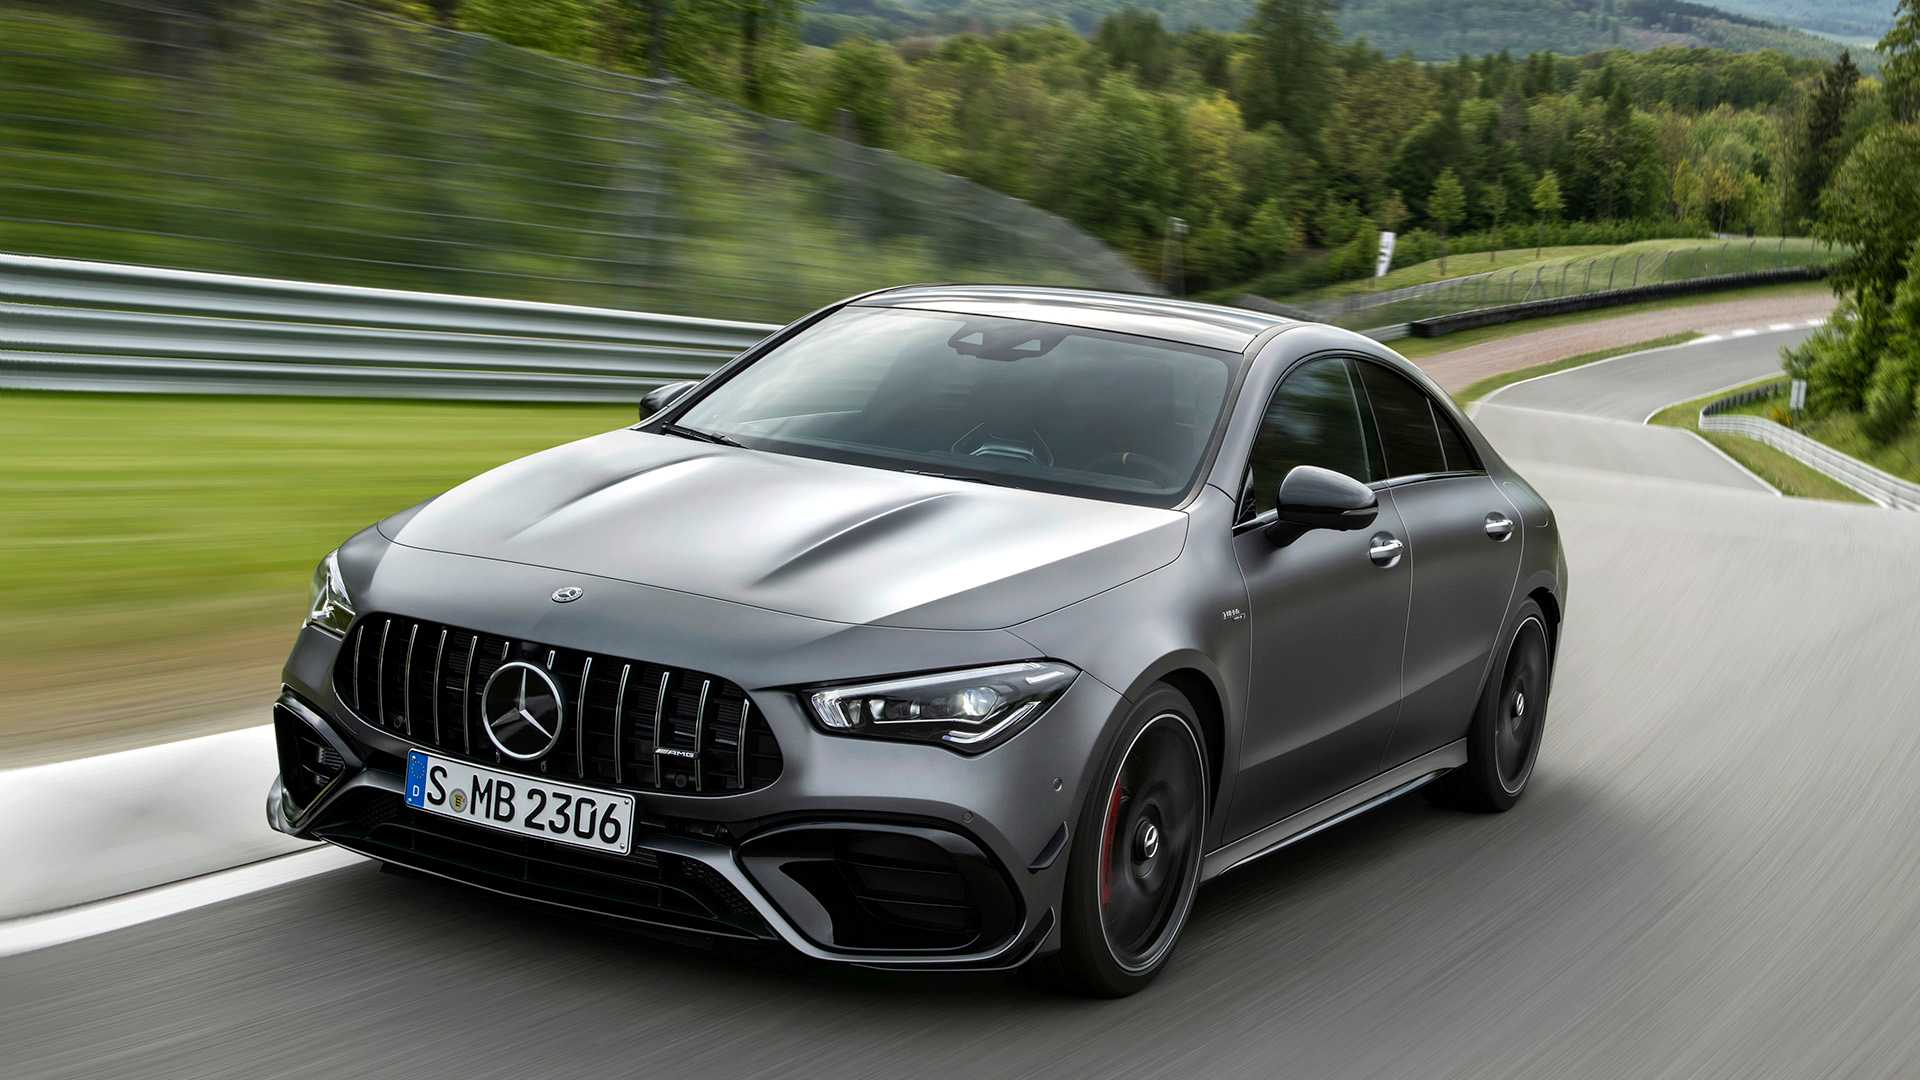
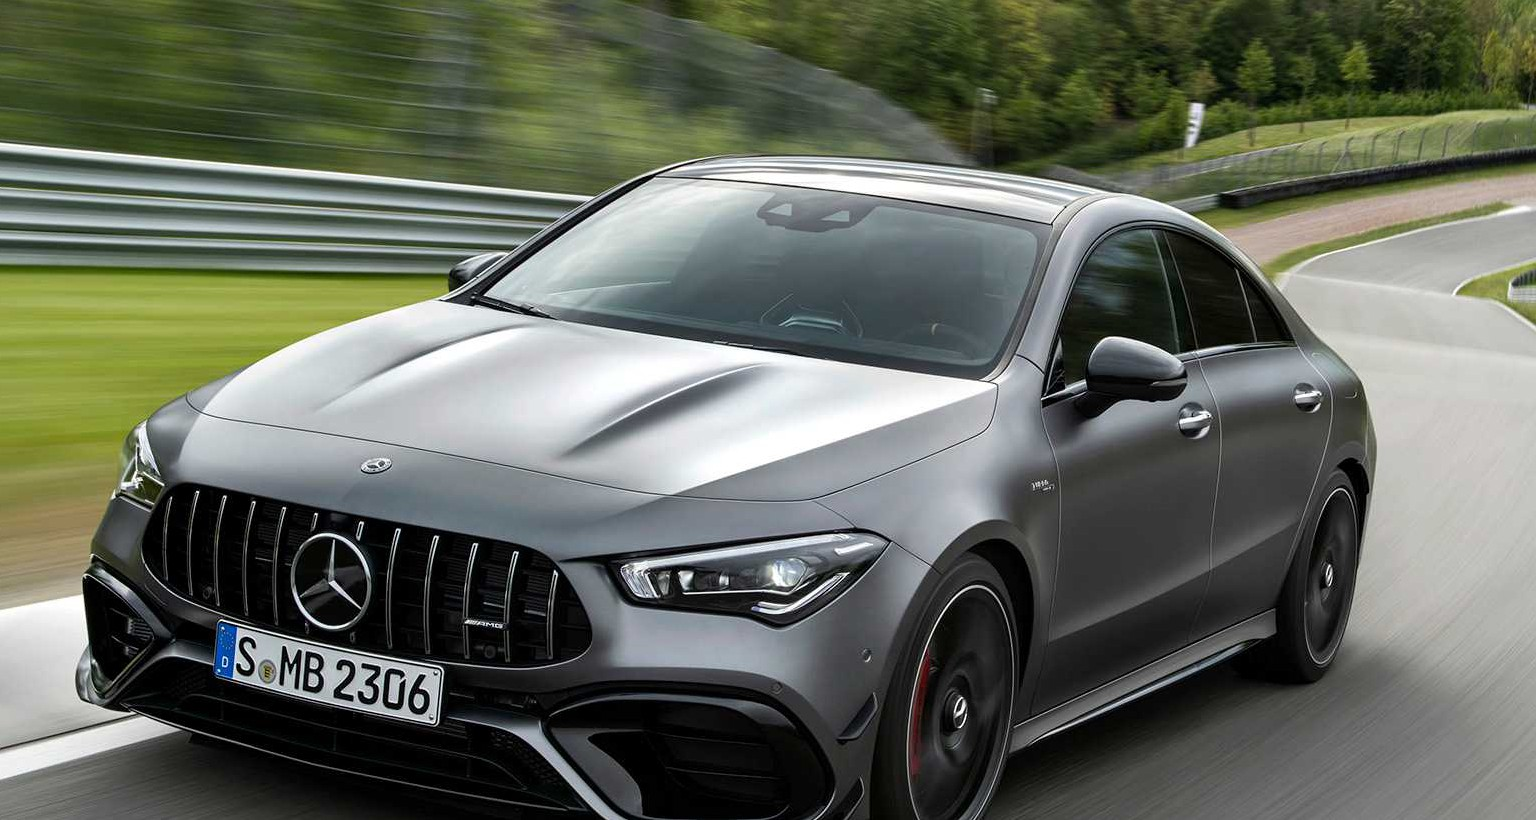
'media'

diff --git a/public/js/media.js b/public/js/media.js
@@ -1,5 +1,5 @@
 // upload picture
-$('#med_pic').on('input',function () {
+/*$('#med_pic').on('input',function () {
     let fd = new FormData(),
         file = $(this)[0].files,
         _self =$(this)[0],
@@ -43,7 +43,7 @@ $('#med_pic').on('input',function () {
             console.log((xhr));
         }
     });
-});
+});*/
 
 // function readURL(input) {
 //     if (input.files && input.files[0]) {
@@ -58,6 +58,168 @@ $('#med_pic').on('input',function () {
 //     }
 // }
 
+let $modal = $('#modal');
+let image = document.getElementById('image');
+let cropper;
+let send_data= [];
+$(document).on('click', '.blah', function (e) {
+    let url = $(this).attr('src');
+    $modal.modal('show');
+    image.src = url;
+    let fname = url.replace(/^.*[\\\/]/, ''),
+    id = $(this).parent().data('id');
+    fetch(url)
+        .then(function (response) {
+            return response.blob()
+        })
+        .then(function (blob) {
+            // send('k', blob,fname,id)
+            send_data.push('k')
+            send_data.push(blob)
+            send_data.push(fname)
+            send_data.push(id)
+        });
+
+});
+
+
+
+$("body").on("change", ".image", function(e){
+    let files = e.target.files;
+    const file11 = this.files[0];
+    const fileType = file11['type'];
+    const validImageTypes = ['image/gif', 'image/jpeg', 'image/png'];
+    console.log(file11);
+    let done = function (url) {
+        image.src = url;
+        $modal.modal('show');
+      //  send()
+    };
+    let reader;
+    let file;
+    let url;
+    if (files && files.length > 0 && validImageTypes.includes(fileType)) {
+        file = files[0];
+        if (URL) {
+            done(URL.createObjectURL(file));
+        } else if (FileReader) {
+            reader = new FileReader();
+            reader.onload = function (e) {
+                done(reader.result);
+            };
+            reader.readAsDataURL(file);
+        }
+    }
+    else {
+        flashMessage('unsupported media type !','red');
+    }
+});
+
+$modal.on('shown.bs.modal', function () {
+    cropper = new Cropper(image, {
+        // aspectRatio: 1,
+        viewMode:3,
+        preview: '.preview',
+        crop(event) {
+            cropImage(
+                event.detail.x,
+                event.detail.y,
+                event.detail.width,
+                event.detail.height,
+                event.detail.scaleX,
+                event.detail.scaleY);
+            $('.w_value').html(Math.round(event.detail.width) + 'px');
+            $('.h_value').html(Math.round(event.detail.height) + 'px');
+        },
+    });
+    // console.log(x);
+}).on('hidden.bs.modal', function () {
+    cropper.destroy();
+    cropper = null;
+    send_data = [];
+});
+let arr = {};
+function cropImage(x,y,w,h,X,Y){
+    arr = {
+        'x':x,
+        'y':y,
+        'w':w,
+        'h':h,
+        'X':X,
+        'Y':Y,
+    };
+    return arr;
+}
+
+// console.log(arr);
+// function send(param,blob,fname,id) {
+
+//     console.log(param,blob,fname,id);
+
+    $("#crop").on('click',function(){
+        console.log(send_data[2]);
+        let fd = new FormData(),
+            // _self =$('#med_pic')[0],
+            fol = $('#fldr').val(),
+            file;
+        if(send_data.length > 1 && send_data[0] == 'k'){
+            fd.append('param',send_data[0]);
+            fd.append('file',send_data[1],send_data[2]);
+        } else{
+            file = $('#med_pic')[0].files[0];
+            fd.append('file',file);
+        }
+        fd.append('folder',fol);
+        fd.append('prop',JSON.stringify(arr));
+        $.ajaxSetup({
+            headers: {
+                'X-CSRF-TOKEN': $('meta[name="csrf-token"]').attr('content')
+            }
+        });
+        $.ajax({
+            url: 'media/upload',
+            type: 'post',
+            // dataType: "json",
+            data: fd,
+            contentType: false,
+            processData: false,
+            success: function(response){
+
+                // console.log(response);
+                if(response.status == 'success' && response.edited !== true){
+                    let div = '<div class="img_box" data-id="'+response.id +'">' +
+                        '<span aria-hidden="true" class="rem">' +
+                        '<i class="fa fa-close img_del"></i></span>' +
+                        '<p class="vert">' + readableBytes(response.size) +'</p>'+
+                        '<img class="blah" src="'+response.path +'" />' +
+                        '<a href="javascript:void(0) " style="margin-top: 1px" data-path="' + response.public_url + '">copy public path</a>' +
+                        '</div>';
+                    if(fol == '0'){
+                        $('.img_bl').append(div);
+                    } else{
+                        $('.f_box[data-id='+fol+']').find('.count').text(response.cnt);
+                        $('.f_data').append(div);
+                    }
+                    $('.modal').modal('hide');
+                    flashMessage(response.message)
+                    fol = 0;
+                }else if(response.edited == true){
+                    let d = new Date();
+                    $(".img_box[data-id='" + send_data[3] + "']").find('img').attr('src', response.path+'?'+d.getTime());
+                    $(".img_box[data-id='" + send_data[3] + "']").find('.vert').text(readableBytes(response.size));
+                    $('.modal').modal('hide');
+                    flashMessage(response.message);
+                    send_data = [];
+                } else{
+                    flashMessage(response.error.file,'red')
+                }
+            },
+            error: function (xhr) {
+                console.log((xhr));
+            }
+        });
+    })
+// }
 
 // add folder modal
 $('.toolbar_m').click(function () {
@@ -239,3 +401,4 @@ function readableBytes(bytes) {
         sizes = ['B', 'KB', 'MB', 'GB', 'TB', 'PB', 'EB', 'ZB', 'YB'];
     return (bytes / Math.pow(1024, i)).toFixed(2) * 1 + ' ' + sizes[i];
 }
+

diff --git a/public/css/style.css b/public/css/style.css
@@ -124,4 +124,4 @@
     .folder_box .count{position: absolute;
         top: 15px;right: 20px}
 
-    .rem_fol:hover, .f_box:hover {cursor: pointer}
+    .rem_fol:hover{cursor: pointer}

diff --git a/resources/views/media/index.blade.php b/resources/views/media/index.blade.php
@@ -1,5 +1,28 @@
 <meta name="csrf-token" content="{{ csrf_token() }}">
+
+<link rel="stylesheet" href="https://cdnjs.cloudflare.com/ajax/libs/cropperjs/1.5.6/cropper.css" integrity="sha256-jKV9n9bkk/CTP8zbtEtnKaKf+ehRovOYeKoyfthwbC8=" crossorigin="anonymous" />
+<script src="https://cdnjs.cloudflare.com/ajax/libs/cropperjs/1.5.6/cropper.js" integrity="sha256-CgvH7sz3tHhkiVKh05kSUgG97YtzYNnWt6OXcmYzqHY=" crossorigin="anonymous"></script>
+
 <link href="/css/lang.css" rel="stylesheet" type="text/css"/>
+<style>
+    img {
+        display: block;
+        max-width: 100%;
+    }
+    .preview {
+        overflow: hidden;
+        width: 100%;
+        height: 200px;
+        margin: 10px;
+        border: 1px solid red;
+    }
+    .modal-lg{
+        max-width: 1000px !important;
+    }
+    /*.cord {padding: 15px}*/
+    .cord p {margin: 2px}
+    .cord span {font-weight: 600 ;font-size: 14px}
+</style>
 @include('layout.app')
 <body class="page-header-fixed page-sidebar-closed-hide-logo page-container-bg-solid">
 @include('layout.header')
@@ -23,7 +46,8 @@
             <div class="row">
                 <div class="col-lg-12 m-toolbar">
                     <div class="col-lg-1">
-                        <input type="file" name="pic" id="med_pic">
+{{--                        <input type="file" name="image" class="image">--}}
+                        <input type="file" name="pic" id="med_pic" class="image" accept="image/x-png,image/gif,image/jpeg" >
                         <input type="hidden" name="fldr" id="fldr" value="0">
                         <label for="med_pic">
                             <i class="fa fa-cloud-upload" aria-hidden="true"></i>
@@ -118,8 +142,51 @@ function humanFileSize($size,$unit="") {
         </div>
     </div>
 </div>
+
+{{--crop image--}}
+<div class="modal fade" id="modal" tabindex="-1" role="dialog" aria-labelledby="modalLabel" aria-hidden="true" >
+    <div class="modal-dialog modal-lg" role="document">
+        <div class="modal-content">
+            <div class="modal-header">
+                <h5 class="modal-title" id="modalLabel" style="width: 65%;float: left">recomend size 600x600</h5>
+                <button type="button" class="close" data-dismiss="modal" aria-label="Close">
+                    <span aria-hidden="true">×</span>
+                </button>
+                <div class="cord" style="width: 35%;float: right;text-align: center">
+                    <p class="height">width : <span class="w_value"></span></p>
+                    <p class="width">height : <span class="h_value"></span></p>
+                </div>
+            </div>
+            <div class="modal-body">
+                <div class="img-container">
+                    <div class="row">
+                        <div class="col-md-8">
+                            <img id="image" src="https://avatars0.githubusercontent.com/u/3456749">
+                        </div>
+                        <div class="col-md-4">
+                            <div class="preview" id="preview"></div>
+
+                        </div>
+                    </div>
+                </div>
+            </div>
+            <div class="modal-footer">
+
+                <button type="button" class="btn btn-secondary" data-dismiss="modal">Cancel</button>
+                <button type="button" class="btn btn-primary" id="crop">Crop</button>
+            </div>
+        </div>
+    </div>
+</div>
+
+
 </body>
 @include('layout.footer')
 
 {{--<script src="/js/menus/index.js"></script>--}}
+
+<script>
+
+</script>
+
 <script src="/js/media.js" type="text/javascript"></script>

diff --git a/app/Http/Controllers/MediaController.php b/app/Http/Controllers/MediaController.php
@@ -10,6 +10,8 @@ use Illuminate\Http\Request;
 use Storage;
 use Illuminate\Support\Facades\File;
 use Illuminate\Support\Facades\Validator;
+use Intervention\Image\Facades\Image;
+
 
 class MediaController extends Controller
 {
@@ -20,7 +22,7 @@ class MediaController extends Controller
     }
 
     public function upload(Request $request){
-
+        $cord = json_decode($request->input('prop'));
         if($request->hasFile('file')){
             $validator = Validator::make($request->all(),[
                 'file' => 'image|mimes:jpeg,png,jpg,gif,svg|max:2048',
@@ -30,14 +32,32 @@ class MediaController extends Controller
                 return response()->json(['status' => 'fail', 'error' => $validator->getMessageBag()->toArray()]);
             }
             $file = $request->file('file');
+            if($request->input('param')){
+               $name = preg_replace('/\?[^?]*$/', '',$file->getClientOriginalName());
+                if($request->input('folder') == '0'){
+                    $path= 'uploads/files/'.$name;
+                    Image::make(public_path($path))->crop(intval($cord->w), intval($cord->h), intval($cord->x), intval($cord->y))->save(public_path($path));
+                }else{
+                    $p = Folder::where('id',$request->input('folder'))->first();
+                    $path= 'uploads/files/'.$p->name.'/'.$name;
+                    Image::make(public_path($path))->crop(intval($cord->w), intval($cord->h), intval($cord->x), intval($cord->y))->save(public_path($path));
+                }
+             return response()->json(['status' => 'success','size' => filesize($path),'path' => $path,'message' => 'edited successfully','public_url' => asset($path),'edited' => true]);
+            }else {
             if($request->input('folder') == '0'){
+//                dd(public_path('uploads/files/'.$file->getClientOriginalName()));
                 Storage::disk('files')->put($file->getClientOriginalName(),File::get($file));
                 $path = '/uploads/files/' . $file->getClientOriginalName();
+                $img = Image::make(public_path($path));
+                $img->crop(intval($cord->w), intval($cord->h), intval($cord->x), intval($cord->y));
+                $img->save(public_path($path));
             } else {
                 $p = Folder::where('id',$request->input('folder'))->first();
                 Storage::disk('files')->put($p->name.'/'.$file->getClientOriginalName(),File::get($file));
                 $path = '/uploads/files/'.$p->name.'/'. $file->getClientOriginalName();
-//                dd('/uploads/files/'.$p->name.'/'.$file->getClientOriginalName(),File::get($file));
+                $img = Image::make(public_path($path));
+                $img->crop(intval($cord->w), intval($cord->h), intval($cord->x), intval($cord->y));
+                $img->save(public_path($path));
             }
             $data = new Media;
             $data->path = $path;
@@ -45,6 +65,7 @@ class MediaController extends Controller
             $data->created_at = Carbon::now();
             $data->save();
             $cnt = Media::where('folder_id',$request->input('folder'))->count();
+            }
             return response()->json(['status' => 'success','size' => \File::size(public_path($data->path)),'path' => $data->path,'id' => $data->id,'message' => 'uploaded successfully','cnt' => $cnt,'public_url' => asset($data->path)]);
         } else {
             return 0;

diff --git a/config/image.php b/config/image.php
@@ -1,0 +1,20 @@
+<?php
+
+return [
+
+    /*
+    |--------------------------------------------------------------------------
+    | Image Driver
+    |--------------------------------------------------------------------------
+    |
+    | Intervention Image supports "GD Library" and "Imagick" to process images
+    | internally. You may choose one of them according to your PHP
+    | configuration. By default PHP's "GD Library" implementation is used.
+    |
+    | Supported: "gd", "imagick"
+    |
+    */
+
+    'driver' => 'gd'
+
+];

diff --git a/config/app.php b/config/app.php
@@ -177,6 +177,7 @@ return [
         App\Providers\RouteServiceProvider::class,
         Spatie\Permission\PermissionServiceProvider::class,
         \App\Providers\ViewServiceProvider::class,
+        Intervention\Image\ImageServiceProvider::class
 
     ],
 
@@ -231,7 +232,7 @@ return [
         'View' => Illuminate\Support\Facades\View::class,
         'Form' => Collective\Html\FormFacade::class,
         'Html' => Collective\Html\HtmlFacade::class,
-
+        'Image' => Intervention\Image\Facades\Image::class
     ],
 
 ];
